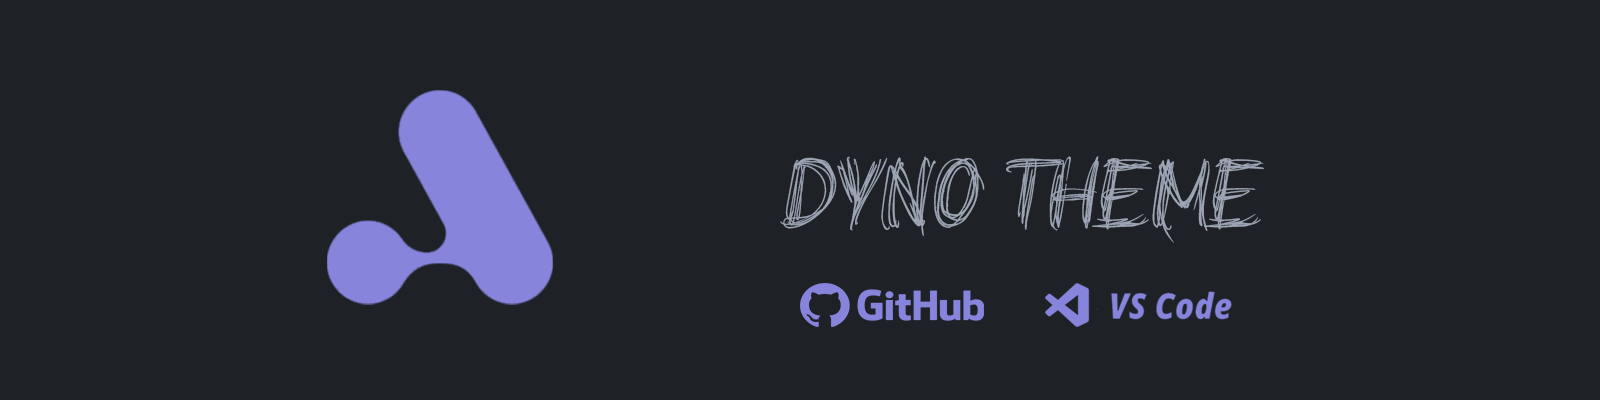
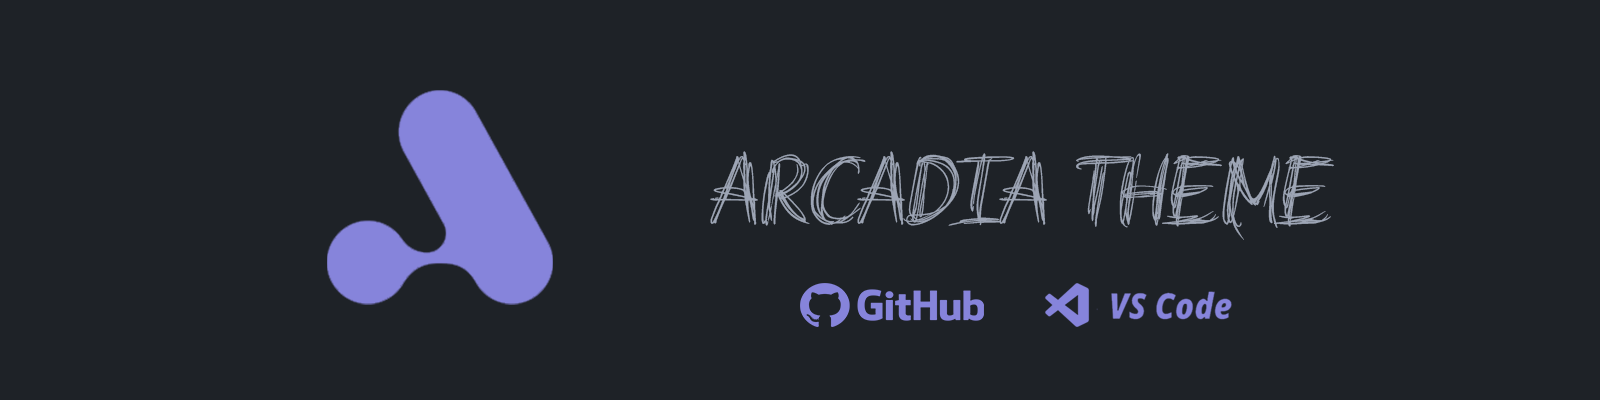
Change name again

Changed region(s): [[0.4375, 0.39, 0.8438, 0.57]]

diff --git a/README.md b/README.md
@@ -3,20 +3,20 @@
 </p>
 
 <p align="center">
-    <a href="https://github.com/kodiexp/dyno-theme"><img src="https://vsmarketplacebadge.apphb.com/version-short/Kodi.dyno-theme.svg?style=for-the-badge&colorA=1e2227&colorB=8780d8&label=VERSION" ></a>&nbsp;
-    <a href="https://github.com/kodiexp/dyno-theme"><img src="https://vsmarketplacebadge.apphb.com/installs-short/Kodi.dyno-theme.svg?style=for-the-badge&colorA=1e2227&colorB=8780d8&label=Installs" ></a>&nbsp;
-    <a href="https://github.com/kodiexp/dyno-theme"><img src="https://vsmarketplacebadge.apphb.com/downloads-short/Kodi.dyno-theme.svg?style=for-the-badge&colorA=1e2227&colorB=8780d8&label=Downloads" ></a>&nbsp;
+    <a href="https://github.com/kodiexp/arcadia-theme"><img src="https://vsmarketplacebadge.apphb.com/version-short/Kodi.arcadia-theme.svg?style=for-the-badge&colorA=1e2227&colorB=8780d8&label=VERSION" ></a>&nbsp;
+    <a href="https://github.com/kodiexp/arcadia-theme"><img src="https://vsmarketplacebadge.apphb.com/installs-short/Kodi.arcadia-theme.svg?style=for-the-badge&colorA=1e2227&colorB=8780d8&label=Installs" ></a>&nbsp;
+    <a href="https://github.com/kodiexp/arcadia-theme"><img src="https://vsmarketplacebadge.apphb.com/downloads-short/Kodi.arcadia-theme.svg?style=for-the-badge&colorA=1e2227&colorB=8780d8&label=Downloads" ></a>&nbsp;
 </p>
 
 ### 📋 Description
 
-A beautiful dark theme for VsCode.You can visit [**Github Repo**](https://github.com/kodiexp/dyno-theme) 💜
+A beautiful dark theme for VsCode.You can visit [**Github Repo**](https://github.com/kodiexp/arcadia-theme) 💜
 &nbsp;
 ### 📝 Changelog
 **Version 0.0.2**
   - This extension is currently under development. 
 
-[**More info**](https://github.com/kodiexp/dyno-theme/blob/main/Changelog.md)
+[**More info**](https://github.com/kodiexp/arcadia-theme/blob/main/Changelog.md)
 &nbsp;
 ### 📷 Pictures
 
@@ -30,7 +30,7 @@ Soon...
   ```jsonc
 
     "VsCode": {
-        "workbench.colorTheme": "Dyno Theme",
+        "workbench.colorTheme": "Arcadia Theme",
         "editor.fontSize": "14px",
         "editor.fontFamily": "Cascadia Code PL"
     }
@@ -45,7 +45,7 @@ Soon...
 &nbsp;
 ### 🔖 License
 
-You can see the [**License**](https://github.com/kodiexp/dyno-theme/blob/main/LICENSE)
+You can see the [**License**](https://github.com/kodiexp/arcadia-theme/blob/main/LICENSE)
 &nbsp;
 ### Thanks
 

diff --git a/Changelog.md b/Changelog.md
@@ -2,4 +2,4 @@
 **version 0.0.2**
   - This extension is currently under development. 
 
-[**More info**](https://github.com/kodiexp/dyno-theme/blob/main/Changelog.md)
+[**More info**](https://github.com/kodiexp/arcadia-theme/blob/main/Changelog.md)
